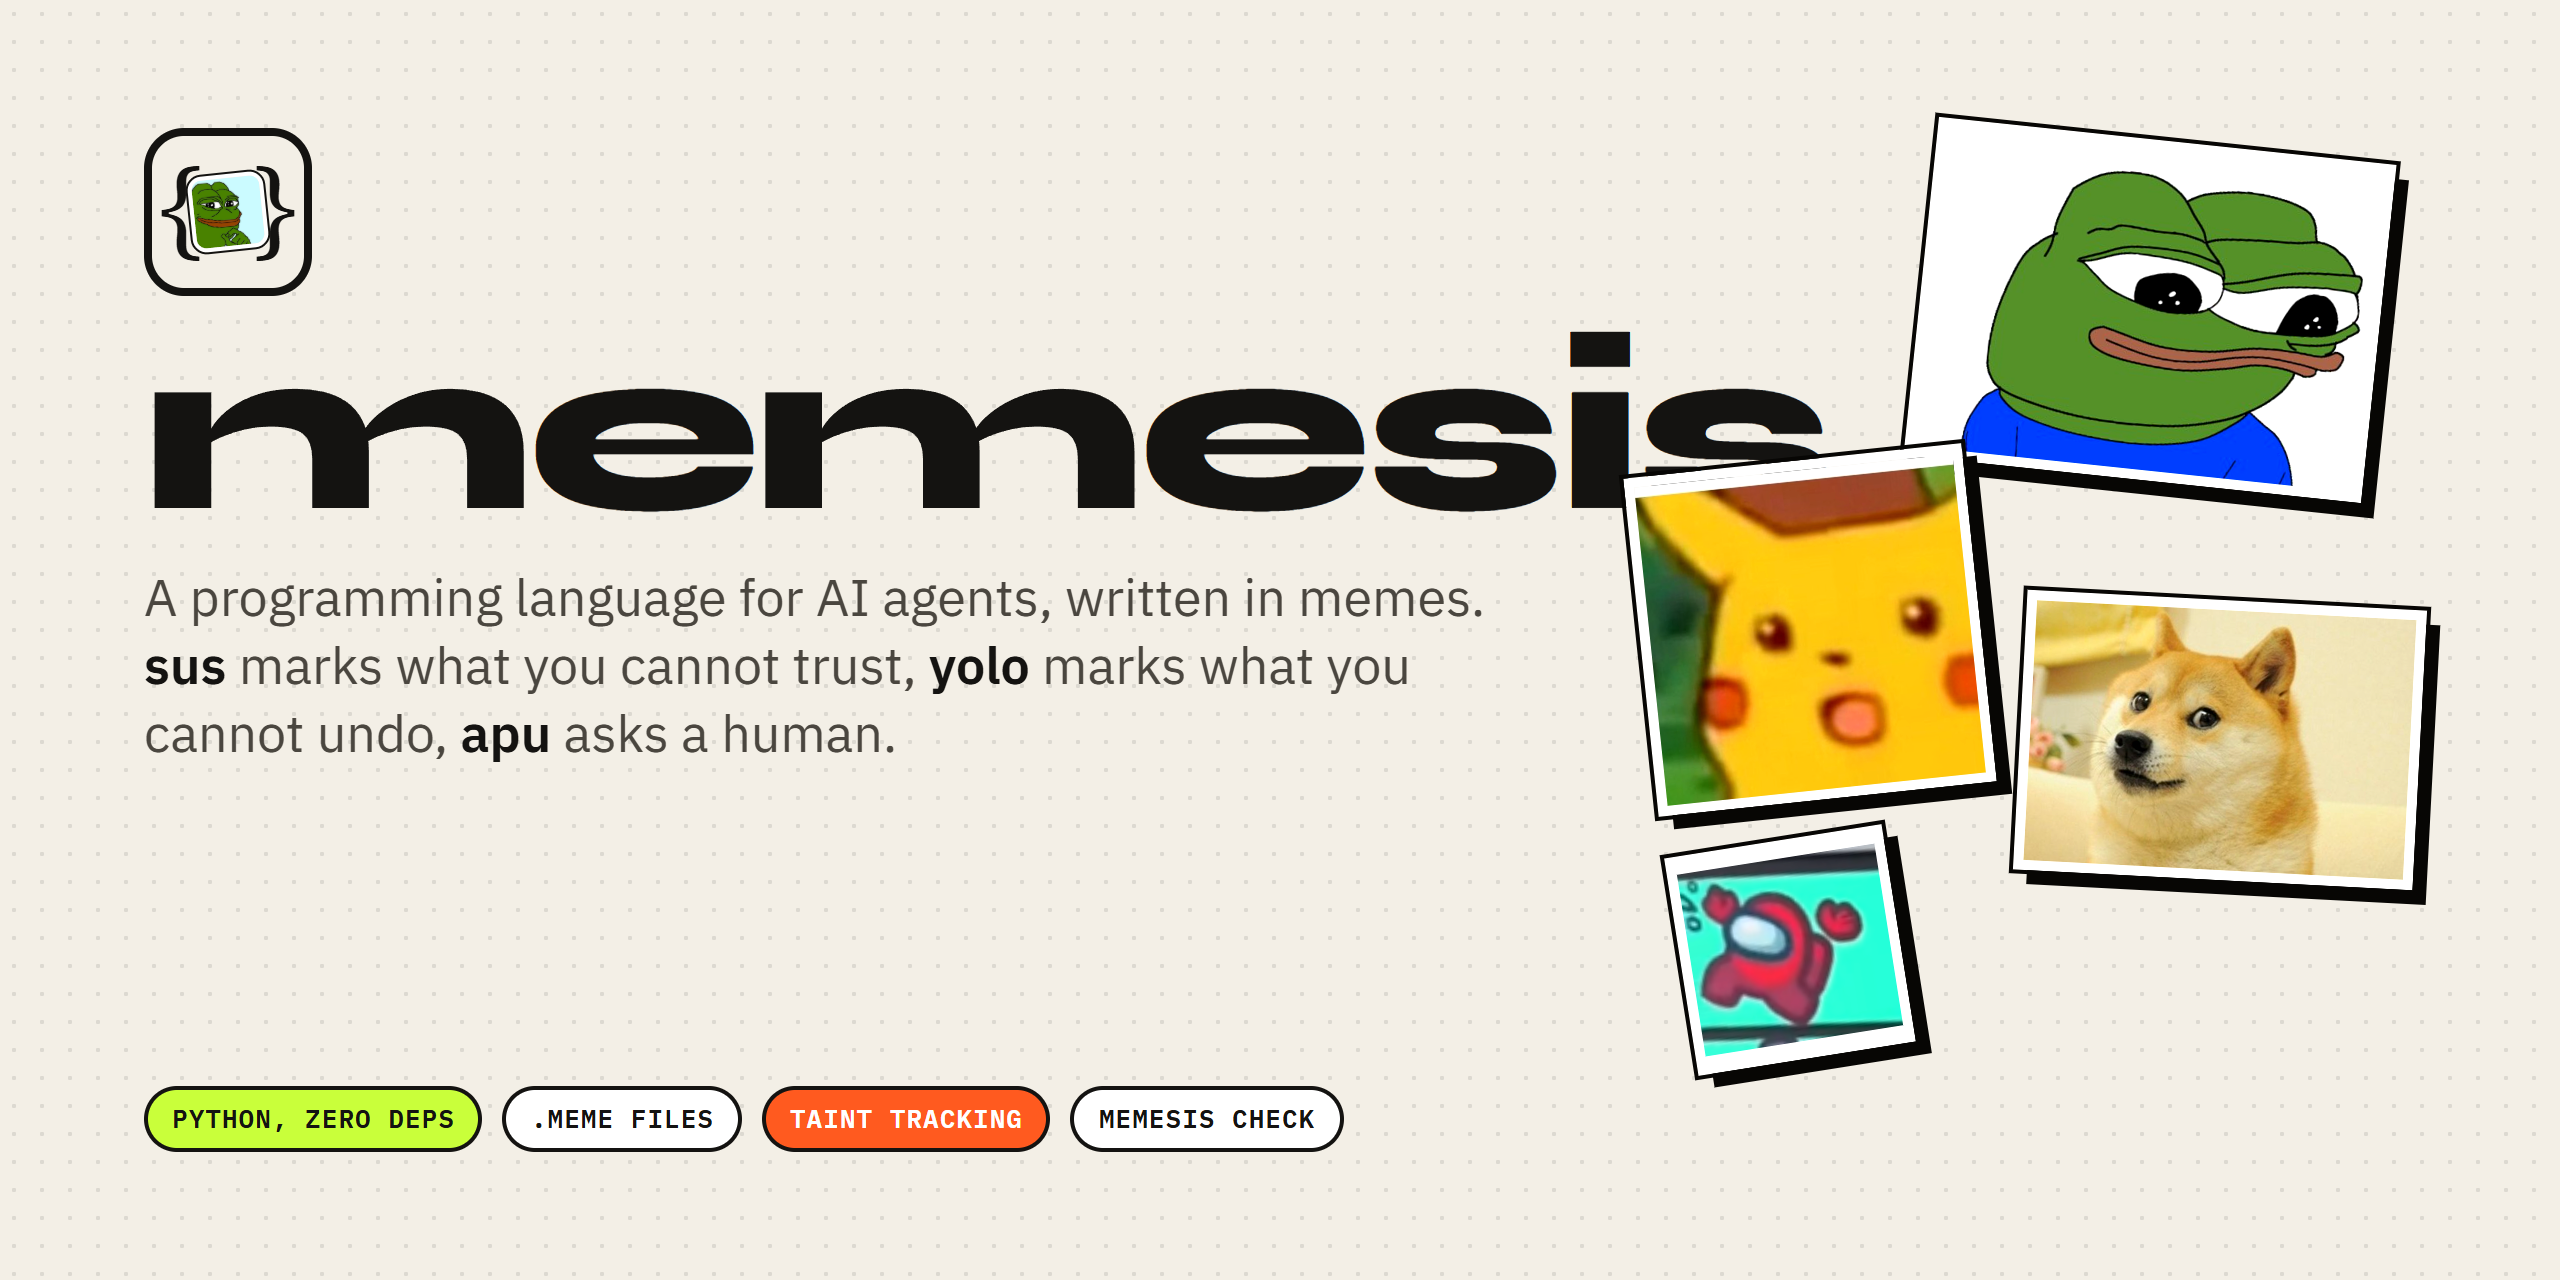
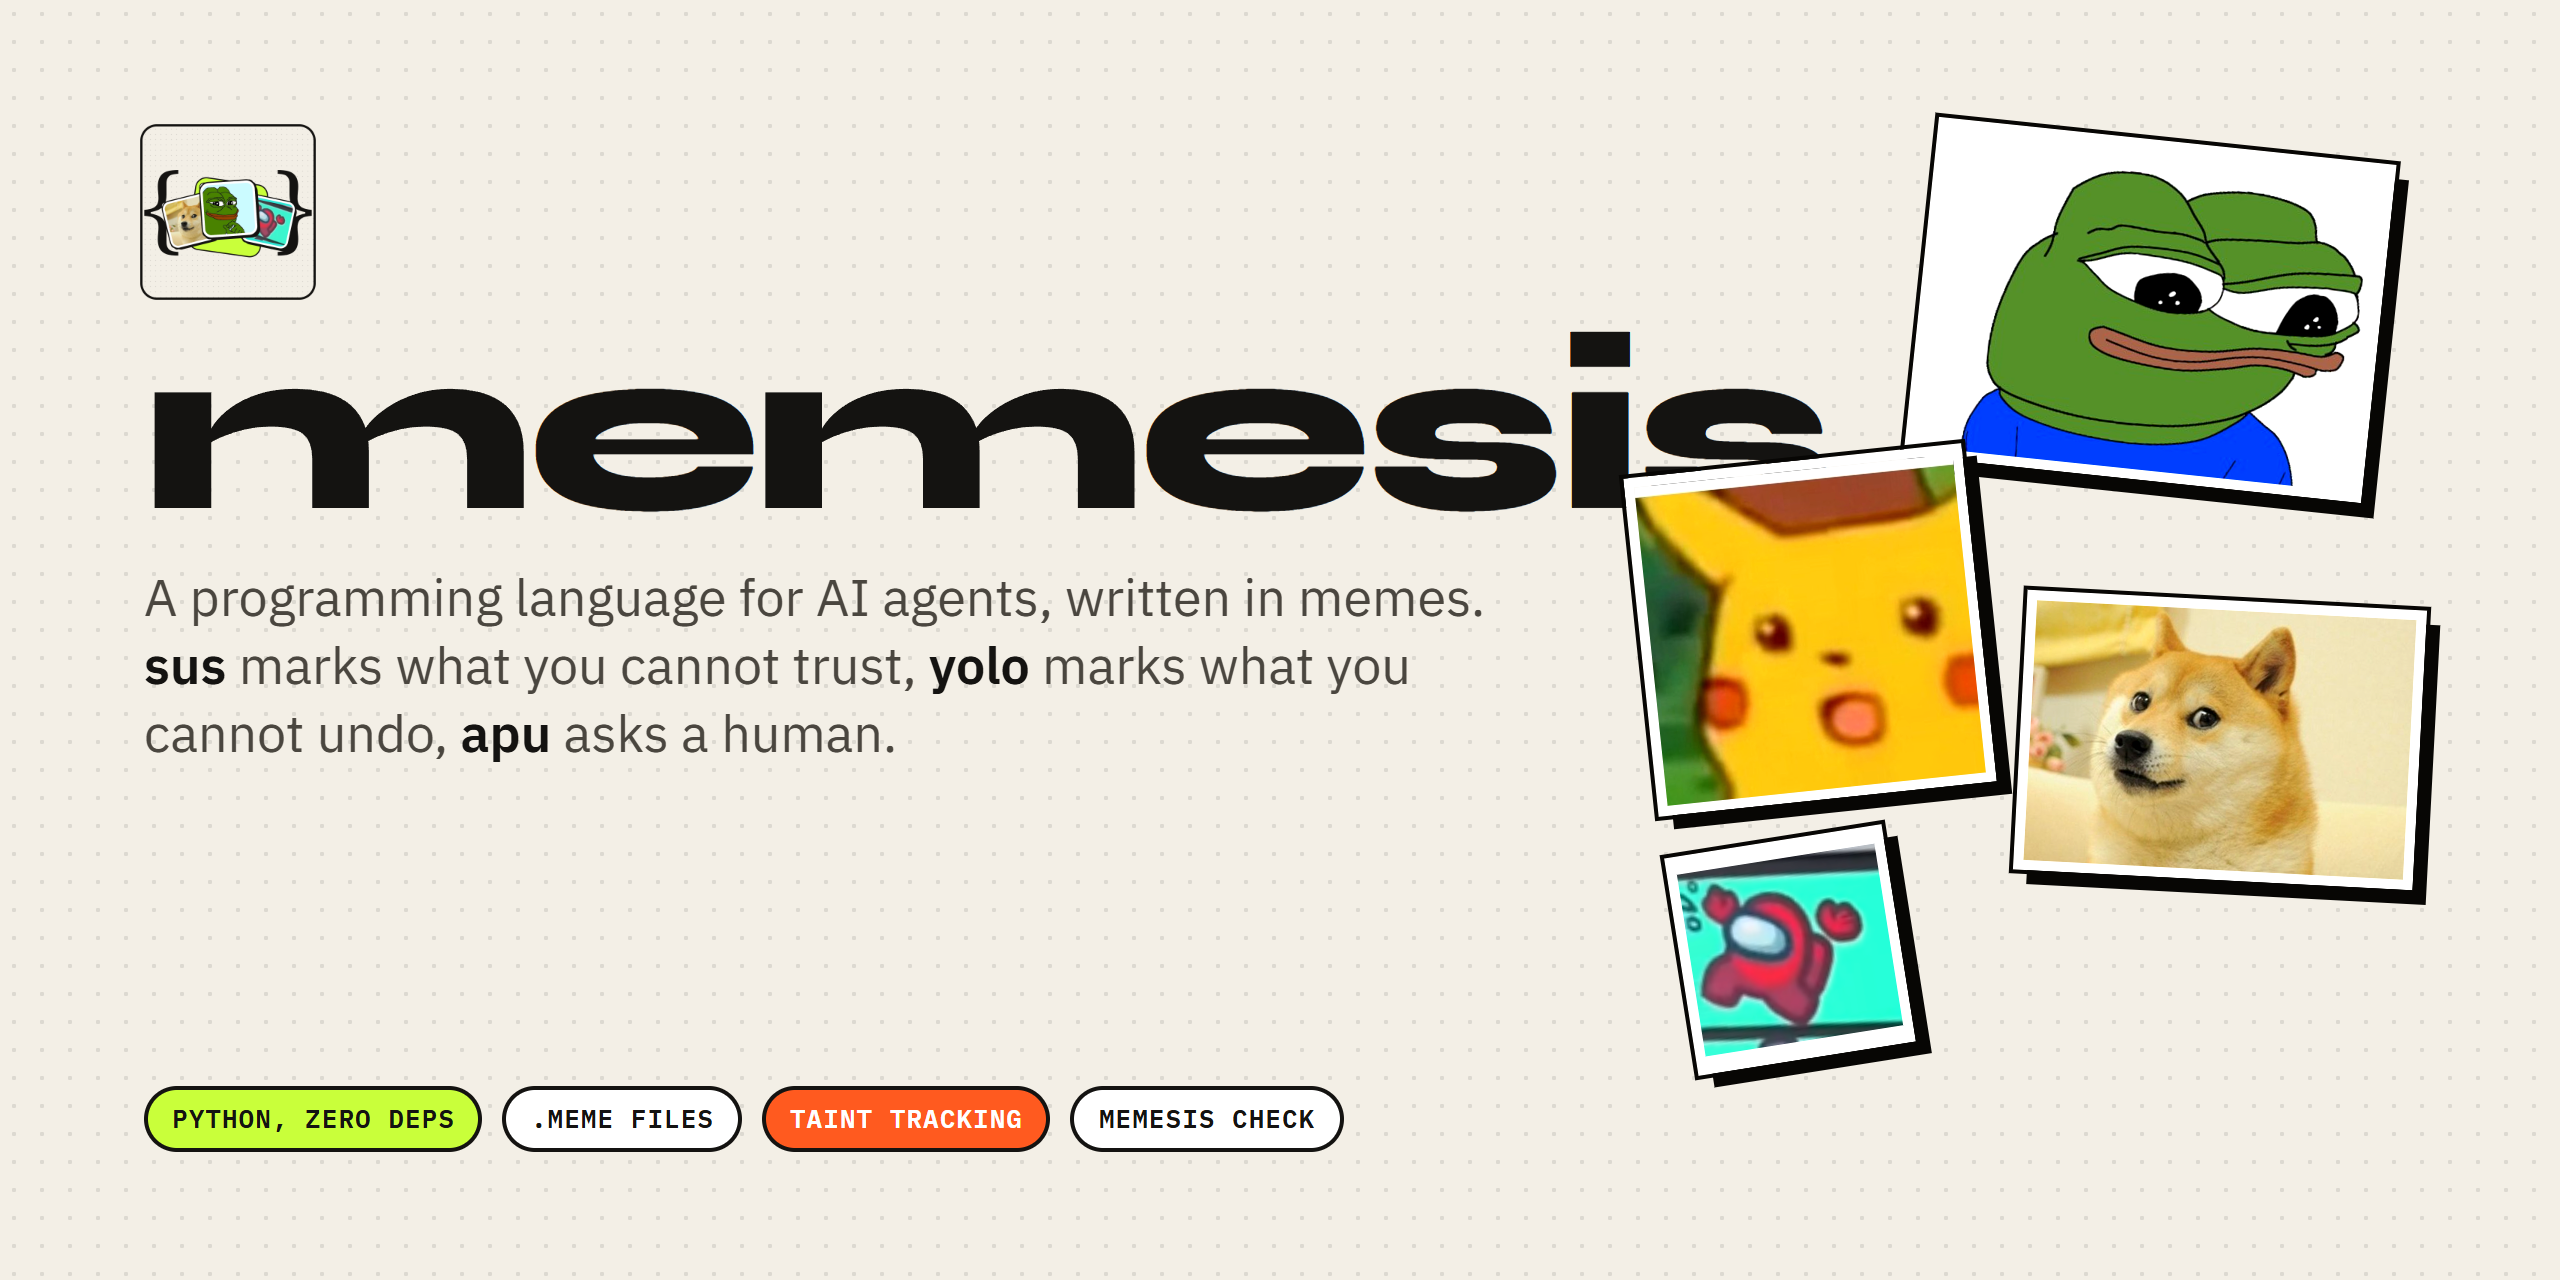
readme: show the animations, social card uses the new mark

Changed region(s): [[0.0312, 0.0938, 0.125, 0.25]]

diff --git a/docs/readme/social.html b/docs/readme/social.html
@@ -4,6 +4,7 @@
 <style>
   html, body { width: 1280px; height: 640px; }
   .page { width: 1280px; height: 640px; padding: 70px 72px; }
+  .markimg { position: absolute; left: 66px; top: 58px; width: 96px; height: 96px; }
   .mark { position: absolute; left: 72px; top: 64px; width: 84px; height: 84px; border: 4px solid var(--ink); border-radius: 20px; background: var(--paper); overflow: hidden; }
   .mark .b { position: absolute; top: 50%; transform: translateY(-54%); font-size: 52px; font-family: Georgia, 'Times New Roman', serif; font-weight: 400; }
   .mark .b.l { left: 3px; } .mark .b.r { right: 3px; }
@@ -19,7 +20,7 @@
   .s4 { right: 330px; top: 420px; width: 110px; } .s4 img { width: 110px; height: 110px; object-fit: contain; }
 </style></head>
 <body><div class="page">
-  <div class="mark"><span class="b l">{</span><span class="b r">}</span><img src="../img/smug.jpg" alt=""></div>
+  <img class="markimg" src="mark.png" alt="">
   <h1 class="display">memesis</h1>
   <p class="tag-line">A programming language for AI agents, written in memes. <b>sus</b> marks what you cannot trust, <b>yolo</b> marks what you cannot undo, <b>apu</b> asks a human.</p>
   <div class="pills"><span class="tag lime">python, zero deps</span><span class="tag">.meme files</span><span class="tag orange">taint tracking</span><span class="tag">memesis check</span></div>

diff --git a/README.md b/README.md
@@ -1,4 +1,4 @@
-<img src="docs/readme/mark.png" alt="memesis" width="150" align="right">
+<img src="docs/readme/mark.gif" alt="memesis: pepe, doge and among us in curly braces" width="170" align="right">
 
 # memesis
 
@@ -31,6 +31,8 @@ memesis prompt                                             # the language on one
 A `.meme` file is a list of statements, one per line, with `{ }` blocks. A `pepe` is an agent and the entry point.
 `such` declares, `wow` emits a result, `grind` loops with a hard cap, `chad / virgin / F` handles failure, `based`
 asserts, `feelsgood` returns. Comments start with `kek`.
+
+<img src="docs/readme/run.gif" alt="memesis run examples/hello.meme, line by line, with the meme for each line" width="100%">
 
 ## Why a meme language
 
@@ -71,6 +73,10 @@ to sit right after a real check: a human said yes through `apu`, a schema valida
 With `--confirm` the runtime asks before each yolo; from Python you attach your own gate with `on_yolo`.
 
 <br clear="all">
+
+<img src="docs/readme/trust.gif" alt="examples/sus.meme: a fetched page is refused by yolo write, memesis check finds it, trustmebro after apu fixes it" width="100%">
+
+The script above is [`examples/sus.meme`](examples/sus.meme); both terminal outputs are the real ones.
 
 ## Failure is a feeling
 
@@ -205,10 +211,10 @@ memesis/
   brains.py         anthropic_brain, openai_compatible_brain, echo_brain
   check.py          static checks           explain.py   plain-English rendering
   prompt.py         the one-page guide      cli.py       memesis run / check / explain / prompt / tools
-examples/           hello.meme, research.meme, deploy.meme, swarm.meme
+examples/           hello.meme, research.meme, deploy.meme, swarm.meme, sus.meme
 tests/              pytest, 34 tests, no network (fetch is stubbed where used)
 editors/            memesis.tmLanguage.json for VS Code / any TextMate editor
-docs/readme/        the HTML sources of the images above; tools/readme_assets.py renders them
+docs/readme/        the HTML sources of the images and GIFs above; tools/readme_assets.py and readme_anim.py render them
 docs/img/           the memes, credited in docs/img/ATTRIBUTION.md
 ```
 
@@ -218,6 +224,7 @@ docs/img/           the memes, credited in docs/img/ATTRIBUTION.md
 pip install -e ".[dev]"
 python -m pytest -q                          # PYTEST_DISABLE_PLUGIN_AUTOLOAD=1 if your global plugins misbehave
 python tools/readme_assets.py                # re-render the README images (Playwright + installed Chrome)
+python tools/readme_anim.py                  # re-render the animated GIFs (logo, run, trust)
 ```
 
 ## Honest notes
